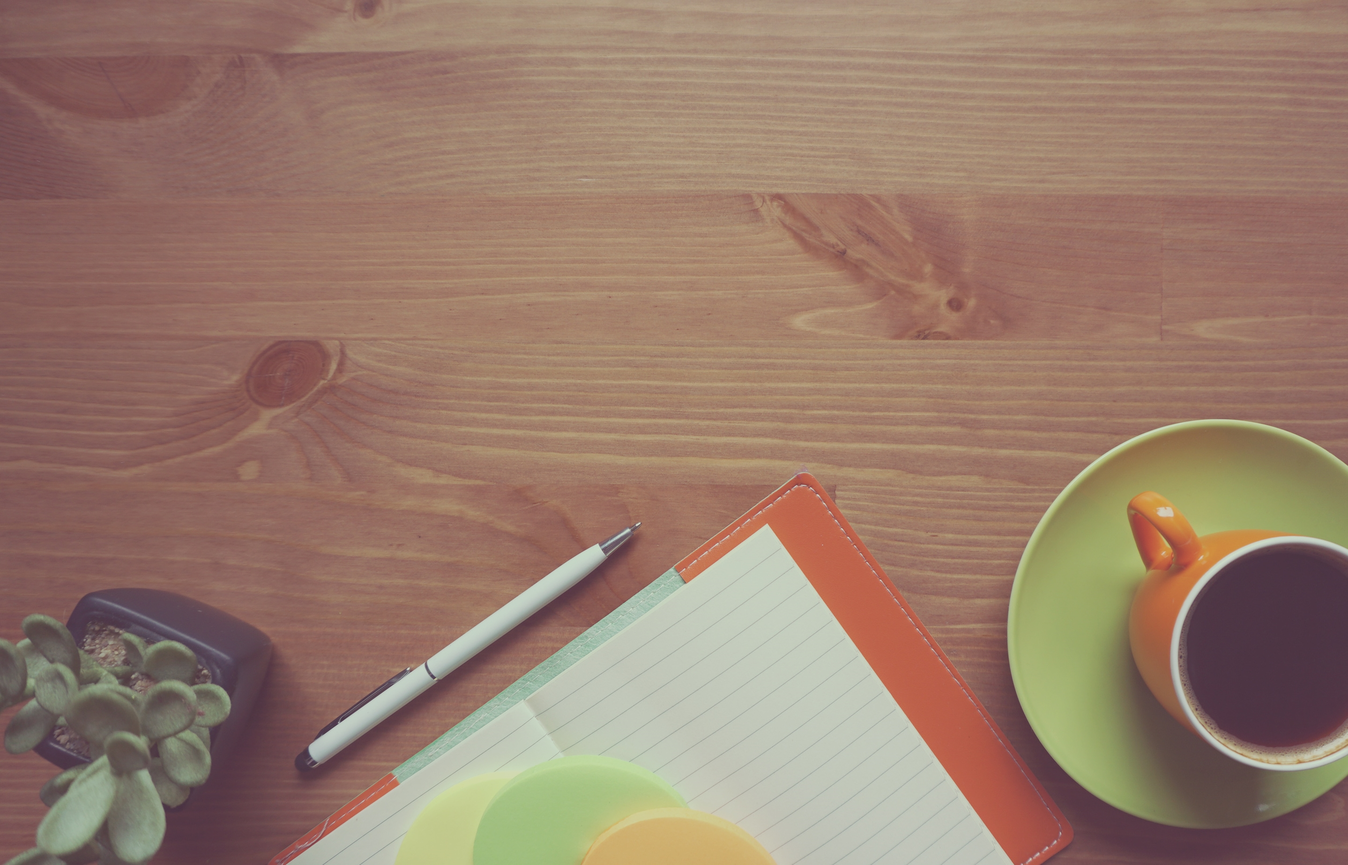
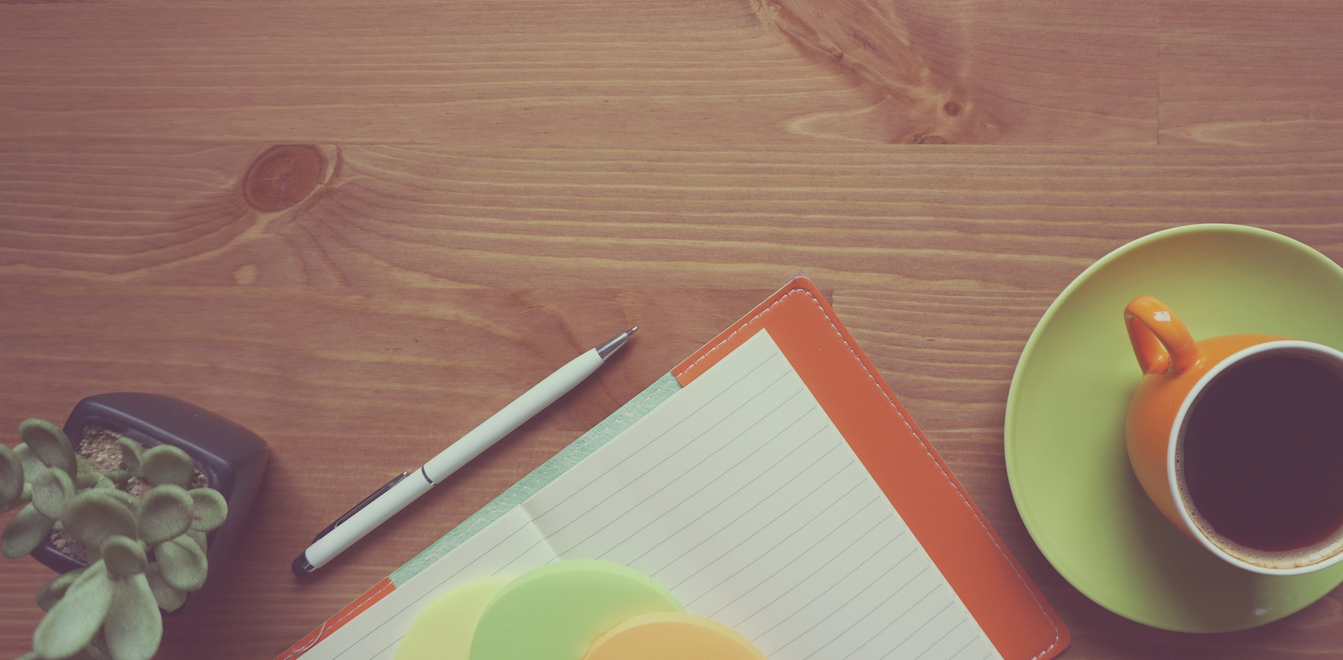
style assignment detail page

diff --git a/src/InterpretGO/wwwroot/css/styles.css b/src/InterpretGO/wwwroot/css/styles.css
@@ -106,6 +106,10 @@ body {
     min-height: 100px;
 }
 
+.chunk-small-left {
+    padding-left: 1%;
+}
+
 .chunk-header {
     margin-bottom: 35px;
     margin-top: 30px;
@@ -183,6 +187,13 @@ body {
 .new-assignment-link a {
     color: #b13cce !important;
     font-size: 20px;
+}
+
+/*Assignment Details Page*/
+
+.assignment-detail-image{
+    width: 400px;
+    margin-top: 130px;
 }
 
 /*Assignments Edit Page*/
